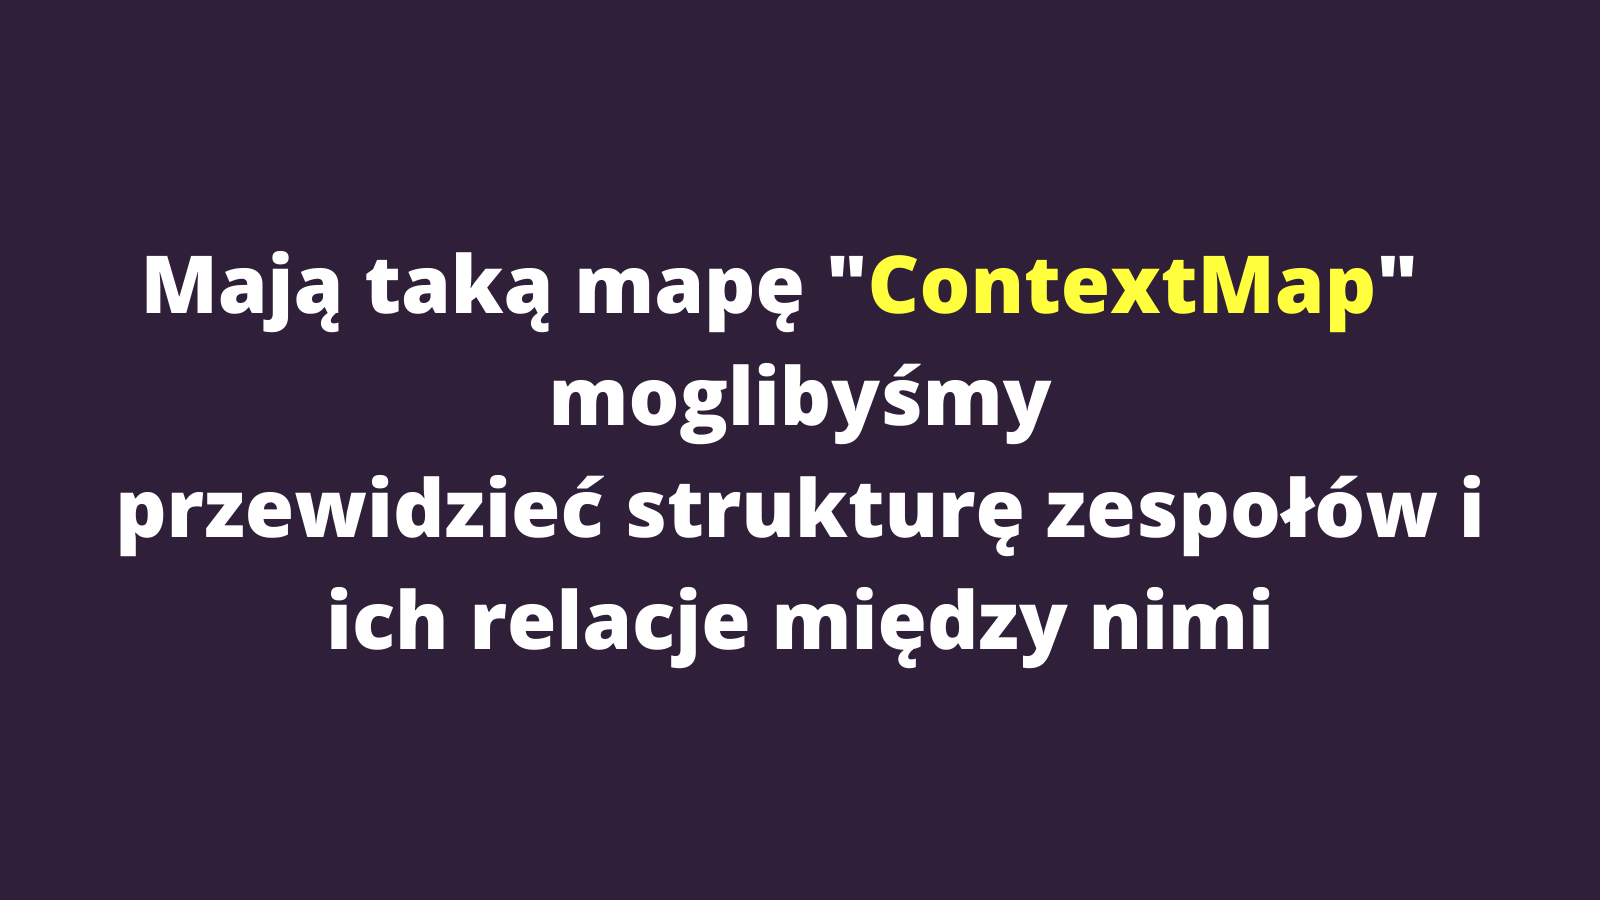
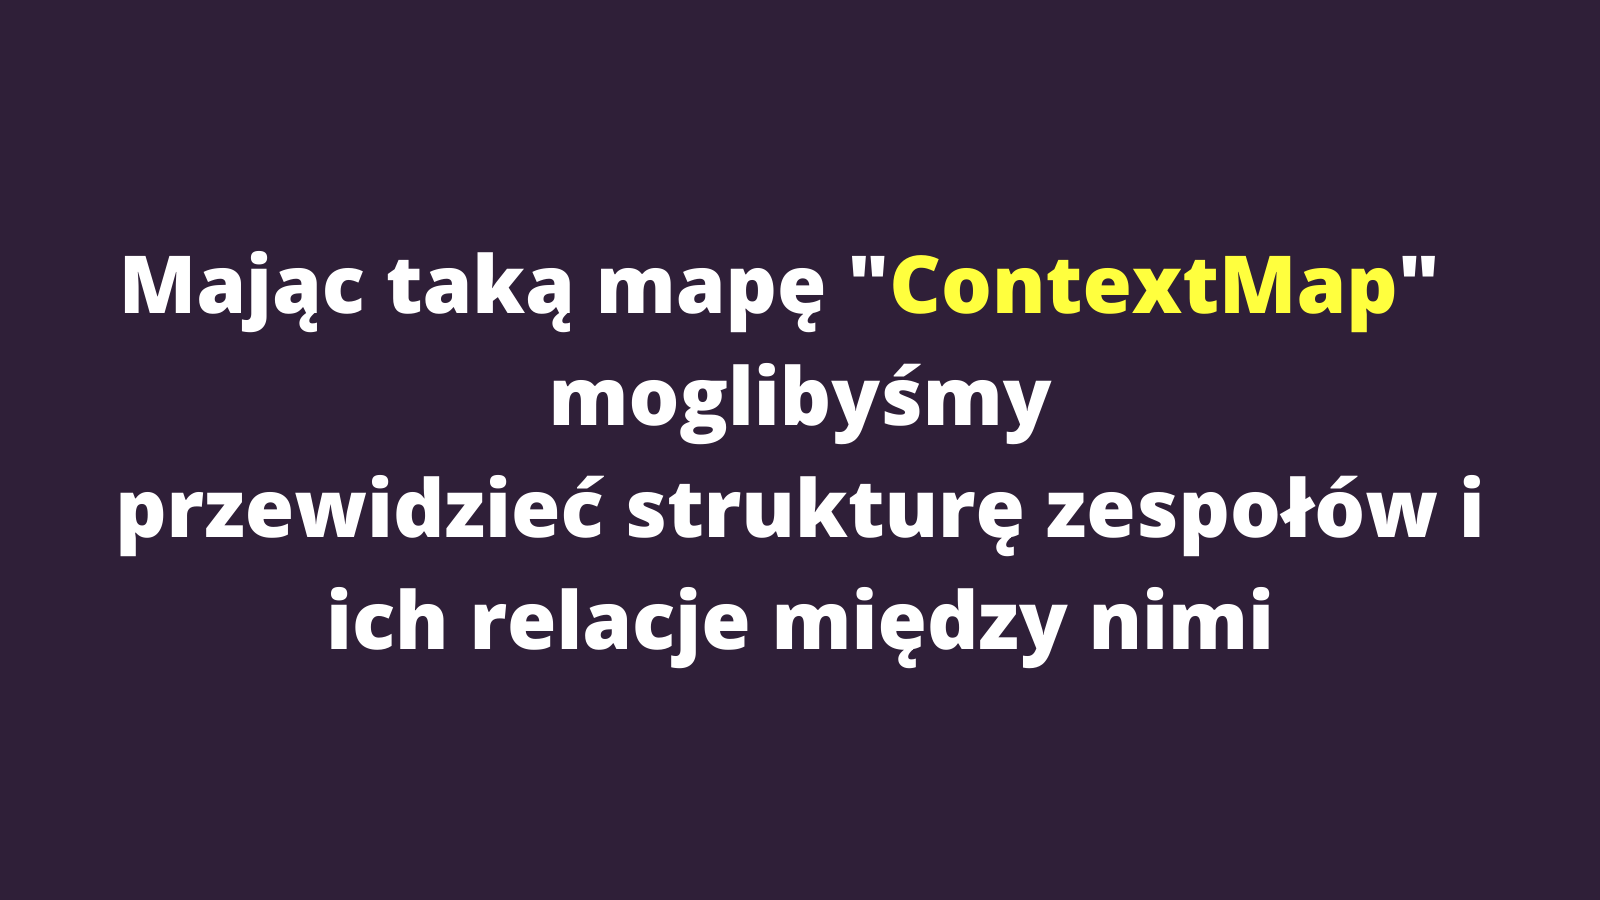
fix typos

Changed region(s): [[0.0625, 0.28, 0.9062, 0.3733]]

diff --git a/index.html b/index.html
@@ -293,7 +293,12 @@
             <figcaption class="white">CW 2022</figcaption>
         </figure>
     </section>
-
+    <section class="slide" style="background-color:black">
+        <figure>
+            <img class="cover" src="slides/1/32.png" alt="blog">
+            <figcaption class="white">CW 2022</figcaption>
+        </figure>
+    </section>
     <section class="slide" style="background-color:black">
         <figure>
             <img class="cover" src="slides/1/33.png" alt="blog">
@@ -870,6 +875,18 @@
         </figure>
     </section>
 
+    <section class="slide" style="background-color:black">
+        <figure>
+            <img class="cover" src="slides/1.png" alt="blog">
+            <figcaption class="white">CW 2022</figcaption>
+        </figure>
+    </section>
+    <section class="slide" style="background-color:black">
+        <figure>
+            <img class="cover" src="slides/2.png" alt="blog">
+            <figcaption class="white">CW 2022</figcaption>
+        </figure>
+    </section>
     <!-- <div class="progress"></div> -->
     <footer class="badge badge-top-left">
         <a href="#" class="fullscreen">Fullscreen</a>
